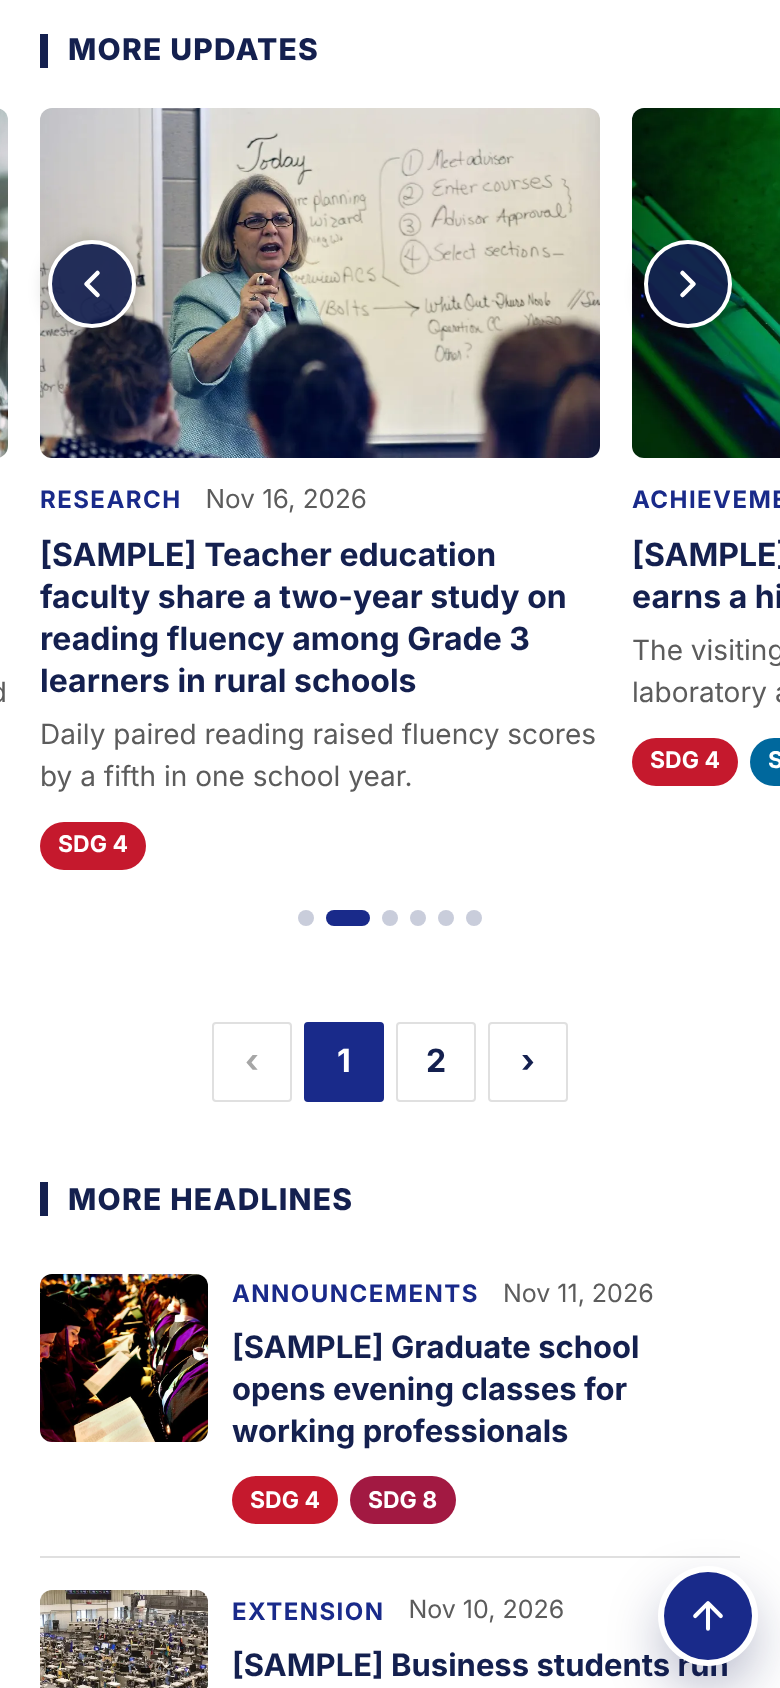
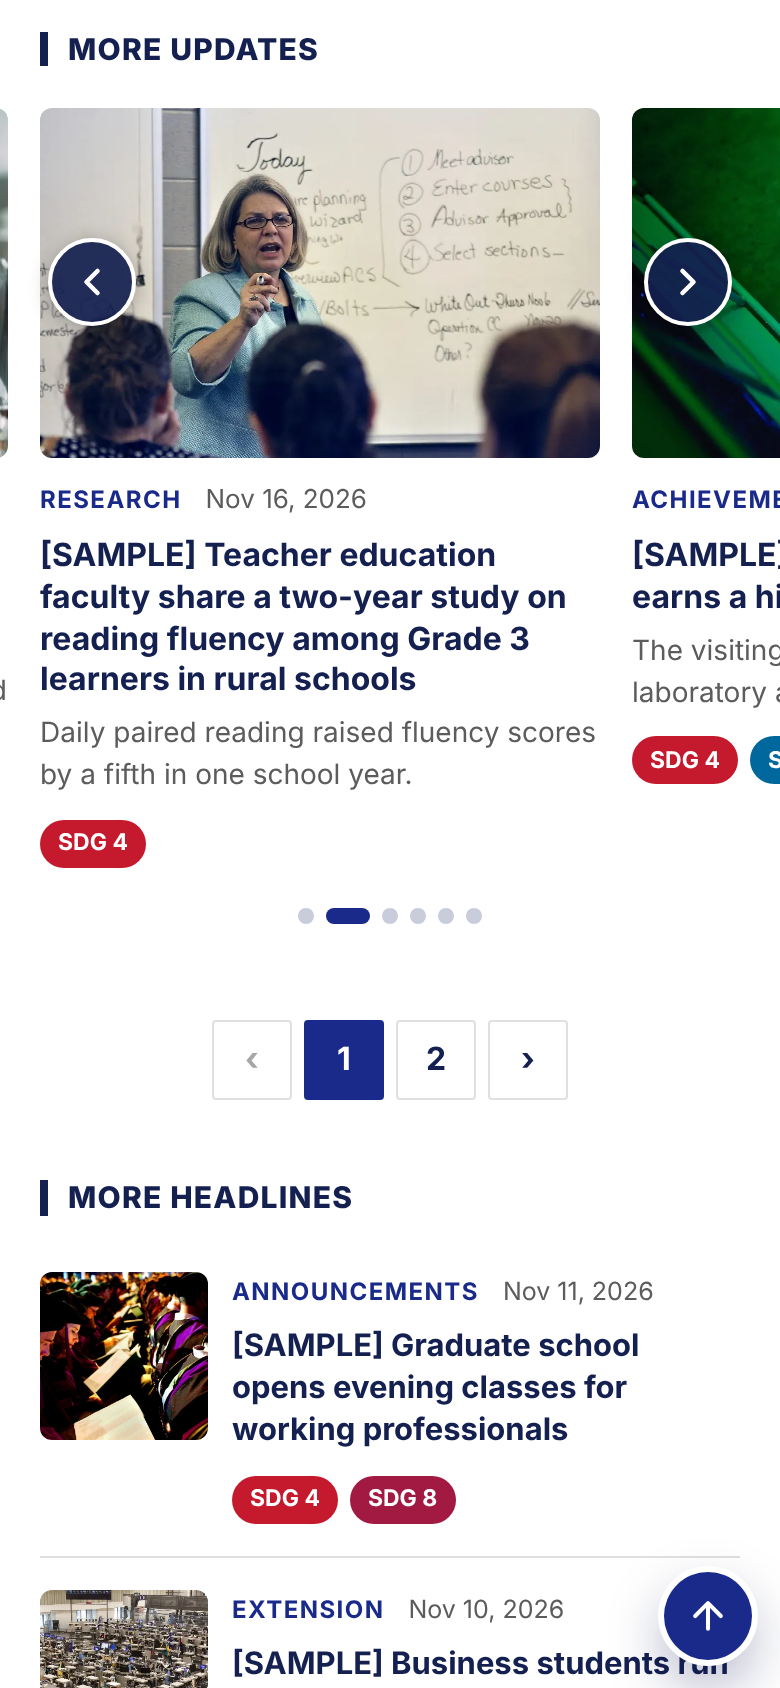
Remove the introduction sentence under the news page title
- The sentence after "News & Announcements" ("News, achievements,
  research and extension work from the colleges...") is no longer shown,
  so the page header is just the title; on phones the lead story moves
  up by about three lines
- Filtered lists still show which college or goal is listed, with a
  "See all news" link
- Retook the design preview screenshots of the front page

Claude-Session: https://claude.ai/code/session_01LcMyg8Y3fzWt6nxCWXxJzR

diff --git a/resources/views/news/index.blade.php b/resources/views/news/index.blade.php
@@ -40,14 +40,13 @@
             <span>{{ $label('breadcrumb') }}</span>
         </nav>
         <h1>{{ Site::text('news.heading') }}</h1>
-        <p class="news-masthead-lead">
-            @if ($college || $sdg)
+        {{-- Only on filtered lists: which college or goal is shown, and a way back --}}
+        @if ($college || $sdg)
+            <p class="news-masthead-lead">
                 {{ $college ? $label('filtered_college', ['college' => $college->name]) : '' }}{{ $college && $sdg ? ' · ' : '' }}{{ $sdg ? $label('filtered_sdg', ['number' => request()->integer('sdg'), 'goal' => $sdg]) : '' }}.
                 <a href="{{ route('news.index') }}">{{ $label('see_all') }}</a>
-            @else
-                {{ Site::text('news.intro') }}
-            @endif
-        </p>
+            </p>
+        @endif
     </div>
 </section>
 

diff --git a/tests/Feature/NewsFrontPageTest.php b/tests/Feature/NewsFrontPageTest.php
@@ -92,6 +92,9 @@ class NewsFrontPageTest extends TestCase
         $this->assertMatchesRegularExpression('/<button[^>]*data-rail="prev"[^>]*aria-controls="news-rail"[^>]*aria-label="Previous stories"[^>]*hidden>/', $html);
         $this->assertMatchesRegularExpression('/<button[^>]*data-rail="next"[^>]*aria-controls="news-rail"[^>]*aria-label="Next stories"[^>]*hidden>/', $html);
 
+        // No introduction sentence under the page title on the front page.
+        $this->assertStringNotContainsString('news-masthead-lead', $html);
+
         // Filtered lists have no lead, so no headline list either.
         $this->assertStringNotContainsString('news-lead-related', $this->get(route('news.index', ['category' => 'college-news']))->getContent());
     }
